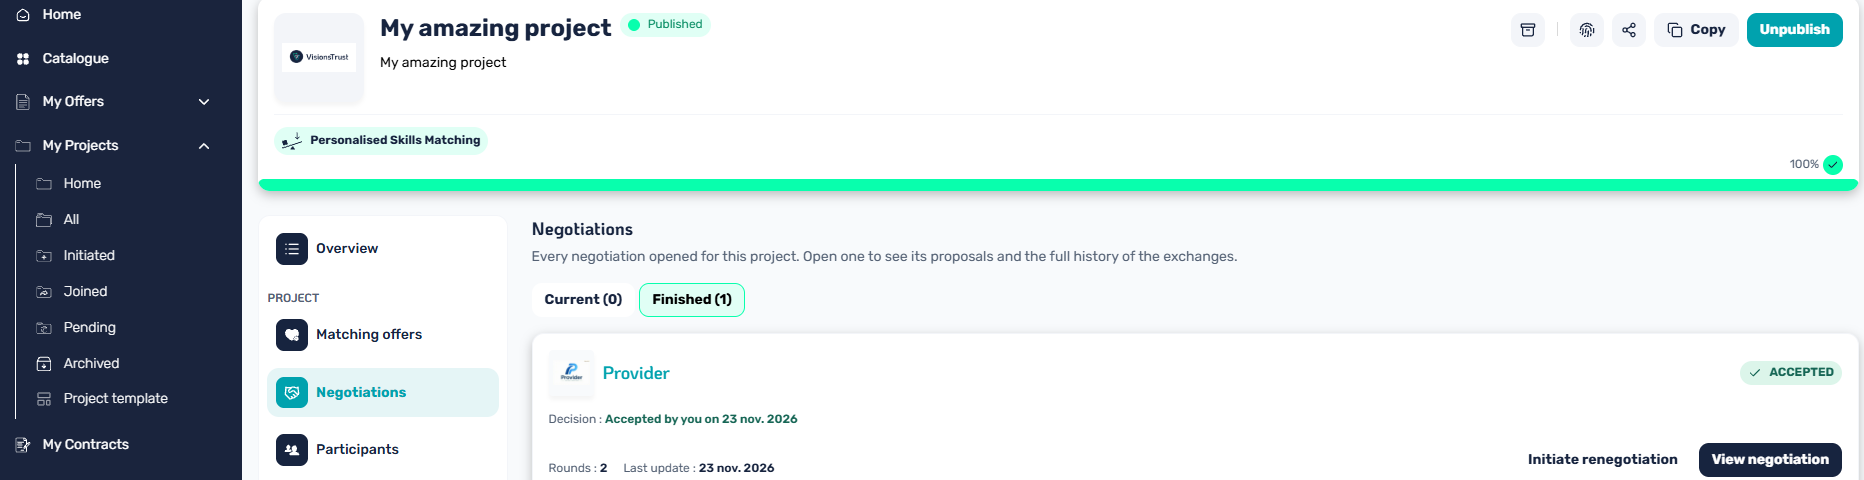
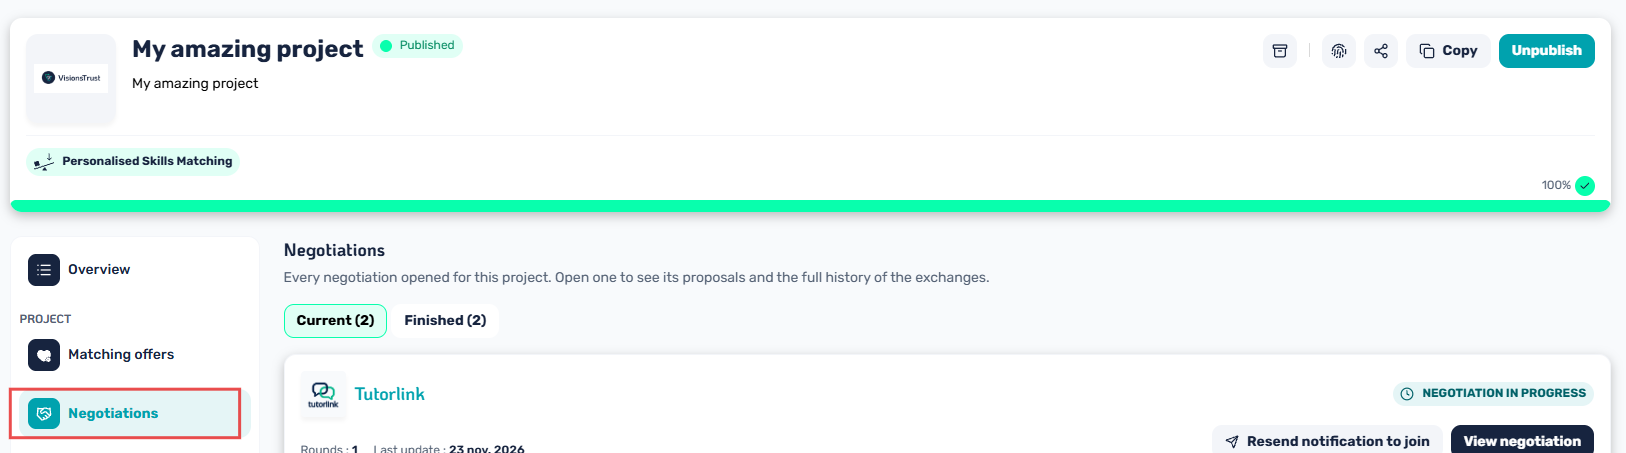
docs: update navigation

diff --git a/docs/application/negotiation/negotiation.md b/docs/application/negotiation/negotiation.md
@@ -6,6 +6,8 @@ When an orchestrator invites your offer, you receive a notification: open it to 
 
 ## Reviewing a proposal
 
+<p><img src="../../images/negotiation-review.png" alt="The review page of a proposal" width="80%"></p>
+
 The review page shows the project, then the offers of the negotiation, one by one. For each offer, you see the package selected by the orchestrator, and the terms that can be negotiated. Each negotiable term shows what the other side proposes ("THEY PROPOSE") and a field to answer ("COUNTER WITH").
 
 The terms that cannot be negotiated are marked "FIXED - NOT NEGOTIABLE". A package with the "PRICE FIXED" tag cannot be negotiated on its price. Some conditions always remain fixed to ensure data compliance and security, such as the usage restrictions and the breach notification policies.
@@ -21,6 +23,8 @@ At the top of the review page, the "Your decision" box shows how many fields nee
 You can add a comment in the "Your comment" field. It is optional, and it is sent with your decision.
 
 ## Sending a counter-offer
+
+<p><img src="../../images/negotiation-counter-offer.png" alt="The Your decision box after a change" width="80%"></p>
 
 1. Change a negotiable value in a "COUNTER WITH" field. The **Send counter-offer** and **Discard changes** buttons appear, and **Accept all** and **Decline** are disabled until you send or discard your changes.
 2. Add a comment if you want to explain your counter-offer.
